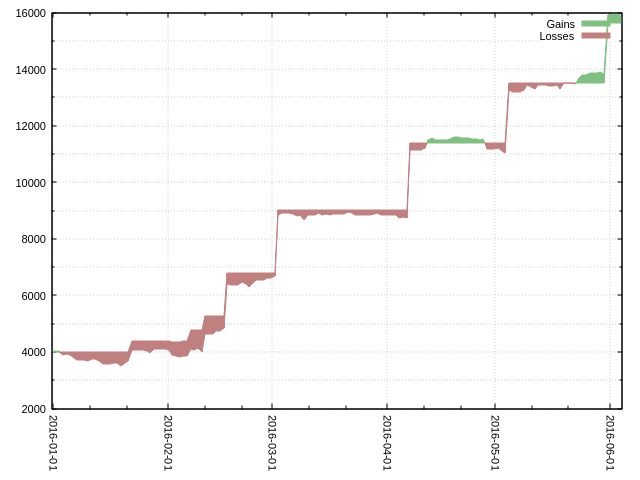
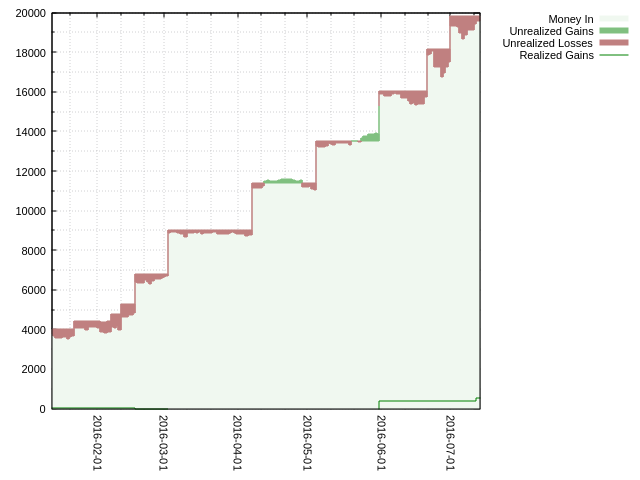
Refactor plot-perf to use iterate_tx().

diff --git a/inc/plot.php b/inc/plot.php
@@ -7,109 +7,45 @@
  * License, Version 2, as published by Sam Hocevar. See
  * http://sam.zoy.org/wtfpl/COPYING for more details. */
 
-function tsv_perf(array $pf, $stream, $start, $end, $absolute = true, array $overlays = []) {	
+function tsv_perf(array $pf, $stream, $start, $end, $absolute = true) {	
 	$start = strtotime(date('Y-m-d', maybe_strtotime($start)));
 	$end = strtotime(date('Y-m-d', maybe_strtotime($end)));
 
-	foreach($overlays as $ol) {
-		if(!isset($pf['lines'][$ol])) {
-			fatal("Overlay must be a valid ticker: %s\n", $ol);
-		}
-	}
-
-	if($absolute && $overlays !== []) {
-		fatal("Overlays not available in absolute mode\n");
-	}
-	
-	$txs = $pf['tx'];
-	reset($txs);
-	$tx = current($txs);
-	$in = 0;
-
-	$hold = [];
-	$obases = [];
-
-	/* XXX: refactor with iterate_tx */
-	while($start <= $end) {
-		while($tx !== false && $tx['ts'] <= $start) {
-			if(!isset($hold[$tx['ticker']])) {
-				$hold[$tx['ticker']] = 0;
-			}
-
-			$hold[$tx['ticker']] += $tx['buy'];
-			$in += ($deltain = $tx['fee'] + $tx['buy']*$tx['price']);
-			$tx = next($txs);
-
-			if(isset($firstv)) $firstv += $deltain;
-		}
-
-		$nextstart = strtotime('+1 day', $start);
-
-		$value = 0;
-		foreach($hold as $ticker => $qty) {
-			$value += get_quote($pf, $ticker, $start) * $qty;
-		}
-
-		if($absolute) {
-			foreach([ $start, $nextstart - 1 ] as $ts) {
-				fprintf(
-					$stream,
-					"%d\t%f\t%f\n",
-					$ts,
-					$in,
-					$value - $in
-				);
-			}
-		} else {
-			$ovals = [];
+	foreach(iterate_tx($pf, $start, $end) as $ts => $d) {
+			$in = $d['totals']['in'] - $d['totals']['out'];
+			$real = $d['totals']['realized'];
+			if(!$in) $continue;
 			
-			if(!isset($firstv)) {
-				$firstv = $value > 0 ? $value : $in;
-				$v = 0.0;
+			$value = 0.0;
+			foreach($d['agg'] as $tkr => $a) {
+				if(!$a['qty']) continue;
+				$value += $a['qty'] * get_quote($pf, $tkr, $ts);
+			}
 
-				foreach($overlays as $t) {
-					$obases[$t] = get_quote($pf, $t, $start);
-					$ovals[$t] = 100.0;
-				}
-			} else if($firstv > 0) {
-				$v = 100.0 * ($value - $firstv) / $firstv;
-				foreach($overlays as $t) $ovals[$t] = 100.0 * get_quote($pf, $t, $start) / $obases[$t];
+			if($absolute) {
+				$line = sprintf("%f\t%f\t%f", $in, $value - $in, $real);
 			} else {
-				$v = 0.0;
-
-				foreach($overlays as $t) $ovals[$t] = 100.0;
+				$line = sprintf("%f\t%f\t%f", 100.0, 100.0 * ($value - $in) / $in, 100.0 * $real / $in);
 			}
-
-			foreach([ $start, $nextstart - 1 ] as $ts) {
-				fprintf(
-					$stream,
-					"%d\t%f\t%f",
-					$ts,
-					100,
-					$v
-				);
-
-				foreach($overlays as $t) fprintf($stream, "\t%f", $ovals[$t]);
-
-				fwrite($stream, "\n");
-			}
-		}
-	    
-		$start = $nextstart;
+			
+			fprintf($stream, "%d\t%s\n", $ts, $line);
+			fprintf($stream, "%d\t%s\n", strtotime('+1 day', $ts) - 1, $line);
 	}
 }
 
-function plot_perf(array $pf, $start, $end, $absolute = true, array $overlays = []) {
+function plot_perf(array $pf, $start, $end, $absolute = true) {
 	$dat = tempnam(sys_get_temp_dir(), 'pfm');
-	tsv_perf($pf, $datf = fopen($dat, 'wb'), $start, $end, $absolute, $overlays);
+	tsv_perf($pf, $datf = fopen($dat, 'wb'), $start, $end, $absolute);
 	fclose($datf);
 	
 	$sf = popen('gnuplot -p', 'wb');
 	fwrite($sf, "set xdata time\n");
 	fwrite($sf, "set timefmt '%s'\n");
 	fprintf($sf, "set xrange ['%d':'%d']\n", maybe_strtotime($start), maybe_strtotime($end));
-	fwrite($sf, "set style fill solid 0.5 noborder\n");
+	fwrite($sf, "set yrange [0<*:]\n");
+	fwrite($sf, "set style fill solid .5 noborder\n");
 	fwrite($sf, "set grid xtics\n");
+	fwrite($sf, "set grid mxtics\n");
 	fwrite($sf, "set grid ytics\n");
 	fwrite($sf, "set grid mytics\n");
 	fwrite($sf, "set mytics 2\n");
@@ -118,22 +54,12 @@ function plot_perf(array $pf, $start, $end, $absolute = true, array $overlays = 
 	fwrite($sf, "set key outside\n");
 	fprintf(
 		$sf,
-		"plot '%s' using 1:(\$2+\$3):2 with filledcurves above linecolor '#008000' title 'Gains', '%s' using 1:(\$2+\$3):2 with filledcurves below linecolor '#800000' title 'Losses'",
+		"plot '%s' using 1:2 with filledcurves above y1=0 linecolor '#E0F0E0' title 'Money In', '%s' using 1:(\$2+\$3):2 with filledcurves above linecolor '#008000' title 'Unrealized Gains', '%s' using 1:(\$2+\$3):2 with filledcurves below linecolor '#800000' title 'Unrealized Losses', '%s' using 1:4 with lines linecolor '#008000' title 'Realized Gains'",
+		$dat,
+		$dat,
 		$dat,
 		$dat
 	);
-
-	$i = 4;
-	foreach($overlays as $o) {
-		fprintf(
-			$sf,
-			", '%s' using 1:$i with lines linecolor '#000000' title '%s'",
-			$dat,
-			$o
-		);
-		++$i;
-		/* TODO: colorize overlay lines */
-	}
 
 	fwrite($sf, "\n");
 	fclose($sf);

diff --git a/inc/status.php b/inc/status.php
@@ -102,7 +102,7 @@ function perf(array &$pf, $date = 'now', $columns = 'default') {
 	case 'default':
 		$startday = strtotime('yesterday', $ts);
 		$periods[] = [
-			'Day', $startday, $ts, '%6.2f', '%6s'
+			'Day', $startday, $ts, '%7.2f', '%7s'
 		];
 		
 		$periods[] = [
@@ -127,17 +127,13 @@ function perf(array &$pf, $date = 'now', $columns = 'default') {
 			$startmonth = $prevmonth;
 		}
 
-		for($i = 0; $i < 2; ++$i) {
+		for($i = 0; $i < 3; ++$i) {
 			$prevyear = strtotime('-1 year', $startyear);
 			$periods[] = [
 				date('Y', $startyear), $prevyear, $startyear, '%5.1f', '%5s'
 			];
 			$startyear = $prevyear;
 		}
-
-		$periods[] = [
-			'All', 0, $ts, '%6.1f', '%6s'
-		];
 		break;
 
 	case 'days':
@@ -262,7 +258,7 @@ function perf(array &$pf, $date = 'now', $columns = 'default') {
 			
 			$ftable[$tkr][$k] = colorize_percentage(
 				100.0 * ($endval - $startval + $delta['realized']) / $startval,
-				$k === 'Day' ? '%6.2f' : ($k === 'All' ? '%6.1f' : ($i === 0 ? '%7.2f' : '%5.1f'))
+				$i === 0 ? '%7.2f' : '%5.1f'
 			);
 		}
 
@@ -270,7 +266,7 @@ function perf(array &$pf, $date = 'now', $columns = 'default') {
 		if($ts === 0.0 || $te === $ts) continue;
 		$ftotal[$k] = colorize_percentage(
 			100.0 * ($te - $ts + $tg) / $ts,
-			$k === 'Day' ? '%6.2f' : ($k === 'All' ? '%6.1f' : ($i === 0 ? '%7.2f' : '%5.1f'))
+			$i === 0 ? '%7.2f' : '%5.1f'
 		);
 	}
 

diff --git a/README.md b/README.md
@@ -11,7 +11,9 @@ Released under the WTFPLv2 license.
 
 # Screenshots
 
-![](./img/perf-relative.png) ![](./img/perf-absolute.png)
+![](./img/pf-relative.png) ![](./img/perf-absolute.png)
+
+![](./img/pf-absolute.png) ![](./img/perf-relative.png)
 
 ~~~
 Silmeria ~ % pfm
@@ -85,7 +87,7 @@ Columns:
 ## Performance graph (`plot-perf`)
 
 ~~~
-Silmeria ~ % pfm plot-perf start:2016-01-01 overlays:CW8U
+Silmeria ~ % pfm plot-perf start:2016-01-01
 ~~~
 
 Parameters:
@@ -93,8 +95,11 @@ Parameters:
 * `start:<date>`
 * `end:<date>`
 * `absolute:0|1`: default is relative (0), absolute will show buy/sell operations and overall portfolio value
-* `overlays:<tickers>`: comma-separated list of tickers to display, only works in relative mode
 * `raw:0|1`: if `1`, don't invoke `gnuplot` and print the raw data, useful if you want to use another tool to generate a chart
+
+## Portfolio graph (`plot-pf`)
+
+Same parameters as `plot-perf`.
 
 ## Transactions view (`ls-tx`)
 
